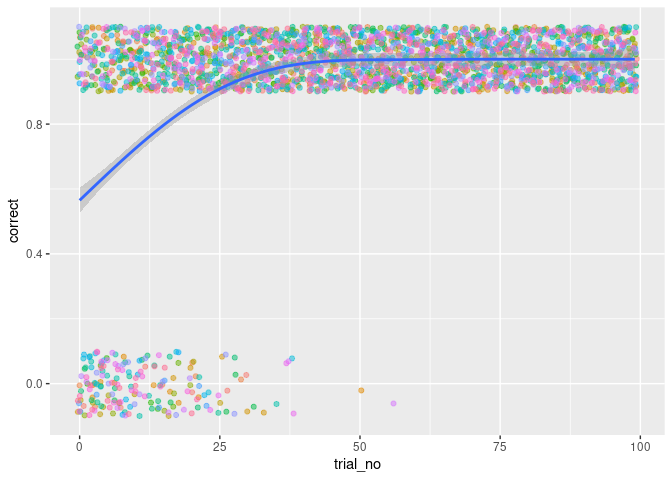
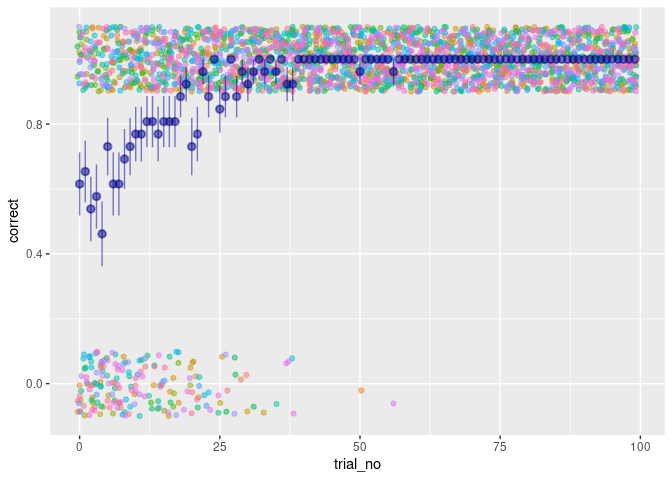
update

Changed region(s): [[0.0938, 0.0938, 0.9688, 0.5312]]

diff --git a/intro_to_logistic_reg.md b/intro_to_logistic_reg.md
@@ -329,18 +329,16 @@ summary(df_smart)
 ``` r
 ggplot(df_smart,aes(x=trial_no, y=correct))+
   geom_jitter(aes(color=bird_ID),height=0.1,show.legend = F,alpha=0.5)+
-  stat_smooth()
+  stat_summary(aes(x=trial_no,y=correct),color="darkblue",alpha=0.5)
 ```
 
-    ## `geom_smooth()` using method = 'gam' and formula 'y ~ s(x, bs = "cs")'
+    ## No summary function supplied, defaulting to `mean_se()`
 
 ![](intro_to_logistic_reg_files/figure-gfm/df_smart_linear_logit-1.png)<!-- -->
 
-GGplot’s `stat_smooth()` function draws a best fitting GAM onto the
-data. This is fine for casually eye-balling relationships, but is not
-sufficient for anything worthy of publication. GAMs are pretty
-complicated, and GGPlot does everything under the hood—recovering
-parameter values is not so straightforward. Let’s look at it with
+GGplot’s `stat_summary()` function draws a point estimate and 95% SE for
+each trial. This is fine for casually eye-balling relationships, but is
+not sufficient for understanding the relationship. Let’s look at it with
 logistic regression.
 
 ``` r
@@ -374,7 +372,7 @@ summary(m1)
 Our relationship between trial number and success is simple here. To
 interpret the probability estimated at the intercept, we can put it in
 our helper function. To interpret the beta for trial number, we can
-simply exponentiate.
+simply exponentiate to get the point estimate.
 
 ``` r
 log_to_prob(coef(m1)[1])
@@ -395,8 +393,8 @@ per 1 trial. Exponentiating this difference gives us the odds. Odds over
 1 indicate a positive relationship, with decimal following one being
 interpreted as the percent increase in the odds of choosing correctly
 per trial (here, approximate 10% more likely to choose correct per
-trial). To recover the specific probability of choosing the correct
-feeder at a given trial, we can plug in values.
+trial). To recover the point estimate of the specific probability of
+choosing the correct feeder at a given trial, we can plug in values.
 
 ``` r
 log_to_prob(coef(m1)[1] + coef(m1)[2]*1)
@@ -412,28 +410,40 @@ log_to_prob(coef(m1)[1] + coef(m1)[2]*9)
     ## (Intercept) 
     ##   0.7152656
 
-On the second trial, the probability of choosing the correct choice is
-.53. On the tenth trial, it’s .72.
+On the second trial, the point estimate of the probability of choosing
+the correct choice is .53. On the tenth trial, it’s .72.
 
 Let’s plot the predicted values from the model over the real values.
+Since this is a GLM, and not a GLMM, each bird will receive the same
+predicted probability. In order to not plot 26 predictions per trial,
+let’s make a simpler dataframe with just 100 trials from an adult, and
+100 trials from a juvenile.
 
 ``` r
-df_smart$preds = predict(m1,type="response")
-ggplot(df_smart,aes(x=trial_no,y=correct))+
+df_predict = tibble(age=c("juv.","ad.")) %>% 
+  slice(rep(1:n(), each = 100)) %>%
+  mutate(age = as.factor(age)) %>% 
+  group_by(age) %>% 
+  mutate(trial_no=c(0:99)) %>% 
+  ungroup()
+df_predict$preds = predict(m1, newdata = df_predict, type="response")
+df_predict$SE = predict(m1, newdata = df_predict, type="response", se.fit=T)$se.fit
+```
+
+``` r
+ggplot(data=df_smart, aes(x=trial_no,y=correct))+
   geom_jitter(aes(color=bird_ID),height=0.1,show.legend = F,alpha=0.5)+
   stat_summary(aes(x=trial_no,y=correct),color="darkblue",alpha=0.5)+
-  stat_summary(aes(x=trial_no,y=preds))+
-  labs(x="trial number",y="correct feeder",title="Group A")
+  geom_pointrange(data=df_predict, aes(x=trial_no,y=preds,ymin=preds-SE,ymax=preds+SE))
 ```
 
     ## No summary function supplied, defaulting to `mean_se()`
-    ## No summary function supplied, defaulting to `mean_se()`
 
-![](intro_to_logistic_reg_files/figure-gfm/unnamed-chunk-6-1.png)<!-- -->
+![](intro_to_logistic_reg_files/figure-gfm/unnamed-chunk-7-1.png)<!-- -->
 
 The fitted mean probability, conditional on trial number, is shown over
-the real mean. This looks pretty close to the GAM we saw before, and
-fits the data reasonably well.
+the real mean. This looks pretty close to mean values from
+`stat_summary()`, and fits the data reasonably well.
 
 One really important point here, is that the relationship we just
 modeled is **totally different** from specifying a linear relationship
@@ -462,11 +472,11 @@ summary(df_smart)
 
 ``` r
 ggplot(df_smart,aes(x=trial_no, y=correct))+
-  geom_point()+
-  stat_smooth()
+  geom_jitter(aes(color=bird_ID),height=0.1,show.legend = F,alpha=0.5)+
+  stat_summary(aes(x=trial_no,y=correct),color="darkblue",alpha=0.5)
 ```
 
-    ## `geom_smooth()` using method = 'gam' and formula 'y ~ s(x, bs = "cs")'
+    ## No summary function supplied, defaulting to `mean_se()`
 
 ![](intro_to_logistic_reg_files/figure-gfm/df_smart_linear_prob-1.png)<!-- -->
 
@@ -479,7 +489,7 @@ LO_seq=prob_to_log(prob_seq)
 qplot(x=c(0:99),y=LO_seq)
 ```
 
-![](intro_to_logistic_reg_files/figure-gfm/unnamed-chunk-7-1.png)<!-- -->
+![](intro_to_logistic_reg_files/figure-gfm/unnamed-chunk-8-1.png)<!-- -->
 
 Weird, right? Such a simple linear increase in probability ends up with
 a non-linear increase in log-odds. Let’s see how a logistic model likes
@@ -521,18 +531,17 @@ log_to_prob(coef(m1)[1])
     ##    0.436014
 
 ``` r
-df_smart$preds = predict(m1,type="response")
+df_predict$preds = predict(m1, newdata = df_predict, type="response")
+df_predict$SE = predict(m1, newdata = df_predict, type="response", se.fit=T)$se.fit
 ggplot(df_smart,aes(x=trial_no,y=correct))+
   geom_jitter(aes(color=bird_ID),height=0.1,show.legend = F,alpha=0.5)+
   stat_summary(aes(x=trial_no,y=correct),color="darkblue",alpha=0.5)+
-  stat_summary(aes(x=trial_no,y=preds))+
-  labs(x="trial number",y="correct feeder",title="Group A")
+  geom_pointrange(data=df_predict, aes(x=trial_no,y=preds,ymin=preds-SE,ymax=preds+SE))
 ```
 
     ## No summary function supplied, defaulting to `mean_se()`
-    ## No summary function supplied, defaulting to `mean_se()`
 
-![](intro_to_logistic_reg_files/figure-gfm/unnamed-chunk-8-1.png)<!-- -->
+![](intro_to_logistic_reg_files/figure-gfm/unnamed-chunk-9-1.png)<!-- -->
 
 By trying to fit a straight line through this curve, it’s ended up
 underestimating the intercept, and it will have over estimated the
@@ -541,3 +550,188 @@ higher on this model than the previous one, indicating a weaker fit to
 the data. The distinction between the relationship between log odds and
 predictors, versus a direct relationship between probability and the
 predictors is really important for understanding how these models work\!
+
+## Interaction effects in slope
+
+Let’s simulate a relationship in which both trial number and age matter,
+and show how the logistic regression can capture that information. Let’s
+say that younger birds learn faster than older birds. This means that
+the slope will differ between ages, but the intercept should be the
+same.
+
+``` r
+df_smart = df_empty %>% 
+  rowwise() %>% 
+  mutate(correct = ifelse(age=="ad.", rbinom(1,1,log_to_prob(.1*trial_no)), rbinom(1,1,log_to_prob(.2*trial_no))))
+
+ggplot(df_smart,aes(x=trial_no, y=correct))+
+  facet_wrap(~age)+
+  geom_jitter(aes(color=bird_ID),height=0.1,show.legend = F,alpha=0.5)+
+  stat_summary(aes(x=trial_no,y=correct),color="darkblue",alpha=0.5)
+```
+
+    ## No summary function supplied, defaulting to `mean_se()`
+    ## No summary function supplied, defaulting to `mean_se()`
+
+![](intro_to_logistic_reg_files/figure-gfm/unnamed-chunk-10-1.png)<!-- -->
+
+``` r
+m1 = glm(correct ~ 1 + age + age:trial_no, data=df_smart, family=binomial)
+summary(m1)
+```
+
+    ## 
+    ## Call:
+    ## glm(formula = correct ~ 1 + age + age:trial_no, family = binomial, 
+    ##     data = df_smart)
+    ## 
+    ## Deviance Residuals: 
+    ##      Min        1Q    Median        3Q       Max  
+    ## -3.09481   0.00641   0.03997   0.20149   1.18767  
+    ## 
+    ## Coefficients:
+    ##                  Estimate Std. Error z value Pr(>|z|)    
+    ## (Intercept)      -0.02411    0.18815  -0.128    0.898    
+    ## agejuv.           0.19211    0.31313   0.614    0.540    
+    ## agead.:trial_no   0.10223    0.01071   9.547  < 2e-16 ***
+    ## agejuv.:trial_no  0.17709    0.02572   6.886 5.74e-12 ***
+    ## ---
+    ## Signif. codes:  0 '***' 0.001 '**' 0.01 '*' 0.05 '.' 0.1 ' ' 1
+    ## 
+    ## (Dispersion parameter for binomial family taken to be 1)
+    ## 
+    ##     Null deviance: 1096.10  on 2599  degrees of freedom
+    ## Residual deviance:  664.92  on 2596  degrees of freedom
+    ## AIC: 672.92
+    ## 
+    ## Number of Fisher Scoring iterations: 9
+
+To interpret the intercept for adults, we convert the intercept estimate
+from log odds to probability.
+
+``` r
+log_to_prob(coef(m1)[1])
+```
+
+    ## (Intercept) 
+    ##   0.4939721
+
+To interpret the intercept for juveniles, we convert the intercept + the
+beta estimate for juveniles from log odds to probability.
+
+``` r
+log_to_prob(coef(m1)[1]+coef(m1)[2])
+```
+
+    ## (Intercept) 
+    ##   0.5419005
+
+And finally we can plot predictions, faceted by age, to see how the
+difference in slopes is realized in probability space.
+
+``` r
+df_predict$preds = predict(m1, newdata = df_predict, type="response")
+df_predict$SE = predict(m1, newdata = df_predict, type="response", se.fit=T)$se.fit
+ggplot(df_smart,aes(x=trial_no,y=correct))+
+  facet_wrap(~age)+
+  geom_jitter(aes(color=bird_ID),height=0.1,show.legend = F,alpha=0.5)+
+  stat_summary(aes(x=trial_no,y=correct),color="darkblue",alpha=0.5)+
+  geom_pointrange(data=df_predict, aes(x=trial_no,y=preds,ymin=preds-SE,ymax=preds+SE))
+```
+
+    ## No summary function supplied, defaulting to `mean_se()`
+    ## No summary function supplied, defaulting to `mean_se()`
+
+![](intro_to_logistic_reg_files/figure-gfm/unnamed-chunk-14-1.png)<!-- -->
+
+\#\#Interaction effects in slopes and intercepts
+
+This time, younger birds learn faster than older birds *and* are somehow
+clarivoyant, and are instictively more attracted to the correct choice.
+This means that both slope and intercept will differ between ages.
+
+``` r
+df_smart = df_empty %>% 
+  rowwise() %>% 
+  mutate(correct = ifelse(age=="ad.", rbinom(1,1,log_to_prob(.1*trial_no)), rbinom(1,1,log_to_prob(1 + .2*trial_no))))
+
+ggplot(df_smart,aes(x=trial_no, y=correct))+
+  facet_wrap(~age)+
+  geom_jitter(aes(color=bird_ID),height=0.1,show.legend = F,alpha=0.5)+
+  stat_summary(aes(x=trial_no,y=correct),color="darkblue",alpha=0.5)
+```
+
+    ## No summary function supplied, defaulting to `mean_se()`
+    ## No summary function supplied, defaulting to `mean_se()`
+
+![](intro_to_logistic_reg_files/figure-gfm/unnamed-chunk-15-1.png)<!-- -->
+
+``` r
+m1 = glm(correct ~ 1 + age + age:trial_no, data=df_smart, family=binomial)
+summary(m1)
+```
+
+    ## 
+    ## Call:
+    ## glm(formula = correct ~ 1 + age + age:trial_no, family = binomial, 
+    ##     data = df_smart)
+    ## 
+    ## Deviance Residuals: 
+    ##     Min       1Q   Median       3Q      Max  
+    ## -4.6944   0.0048   0.0329   0.1741   1.2406  
+    ## 
+    ## Coefficients:
+    ##                  Estimate Std. Error z value Pr(>|z|)    
+    ## (Intercept)      -0.14738    0.18856  -0.782  0.43444    
+    ## agejuv.           1.19878    0.36536   3.281  0.00103 ** 
+    ## agead.:trial_no   0.10701    0.01098   9.744  < 2e-16 ***
+    ## agejuv.:trial_no  0.17486    0.03577   4.888 1.02e-06 ***
+    ## ---
+    ## Signif. codes:  0 '***' 0.001 '**' 0.01 '*' 0.05 '.' 0.1 ' ' 1
+    ## 
+    ## (Dispersion parameter for binomial family taken to be 1)
+    ## 
+    ##     Null deviance: 978.61  on 2599  degrees of freedom
+    ## Residual deviance: 583.71  on 2596  degrees of freedom
+    ## AIC: 591.71
+    ## 
+    ## Number of Fisher Scoring iterations: 10
+
+To interpret the intercept for adults, we convert the intercept estimate
+from log odds to probability.
+
+``` r
+log_to_prob(coef(m1)[1])
+```
+
+    ## (Intercept) 
+    ##   0.4632217
+
+To interpret the intercept for juveniles, we convert the intercept + the
+beta estimate for juveniles from log odds to probability
+
+``` r
+log_to_prob(coef(m1)[1]+coef(m1)[2])
+```
+
+    ## (Intercept) 
+    ##   0.7410446
+
+We see that the intercept is indeed higher. We can plot finally
+predictions, faceted by age, to see the difference in slopes and
+intercepts.
+
+``` r
+df_predict$preds = predict(m1, newdata = df_predict, type="response")
+df_predict$SE = predict(m1, newdata = df_predict, type="response", se.fit=T)$se.fit
+ggplot(df_smart,aes(x=trial_no,y=correct))+
+  facet_wrap(~age)+
+  geom_jitter(aes(color=bird_ID),height=0.1,show.legend = F,alpha=0.5)+
+  stat_summary(aes(x=trial_no,y=correct),color="darkblue",alpha=0.5)+
+  geom_pointrange(data=df_predict, aes(x=trial_no,y=preds,ymin=preds-SE,ymax=preds+SE))
+```
+
+    ## No summary function supplied, defaulting to `mean_se()`
+    ## No summary function supplied, defaulting to `mean_se()`
+
+![](intro_to_logistic_reg_files/figure-gfm/unnamed-chunk-19-1.png)<!-- -->
